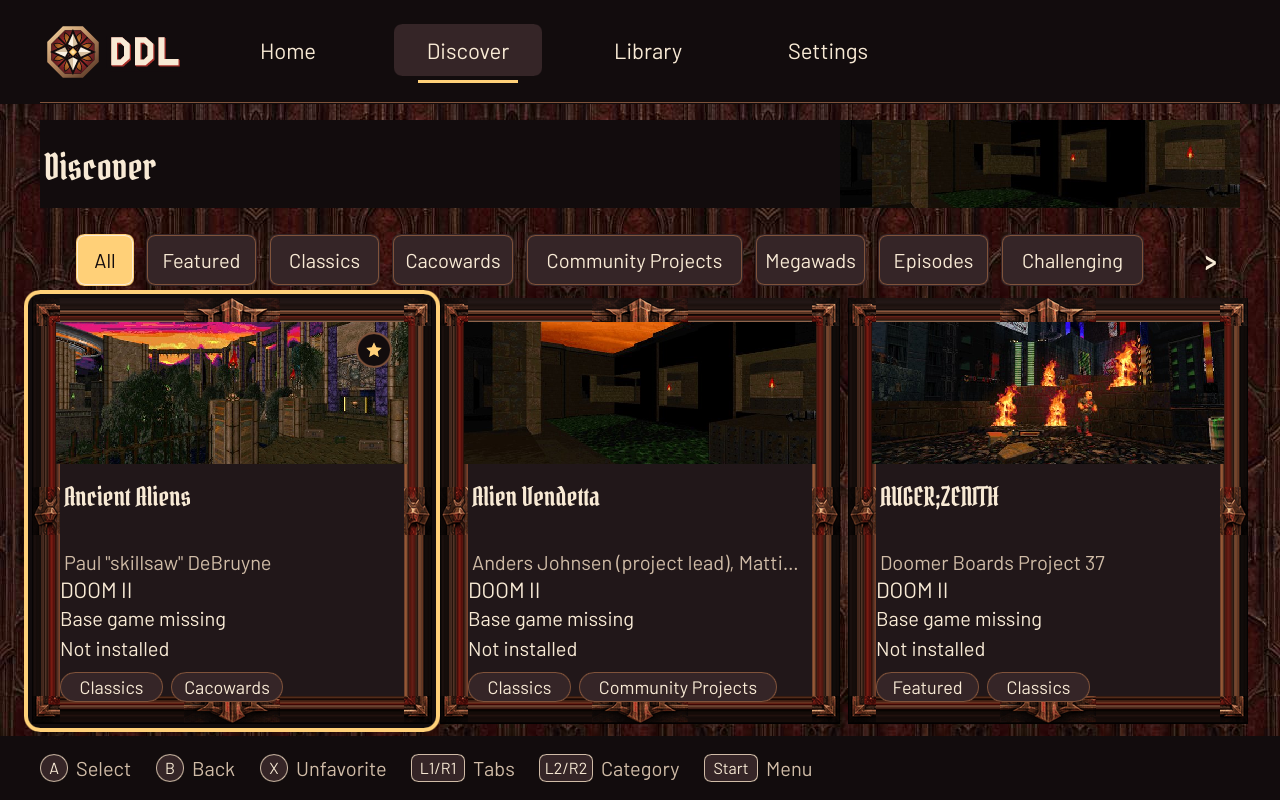
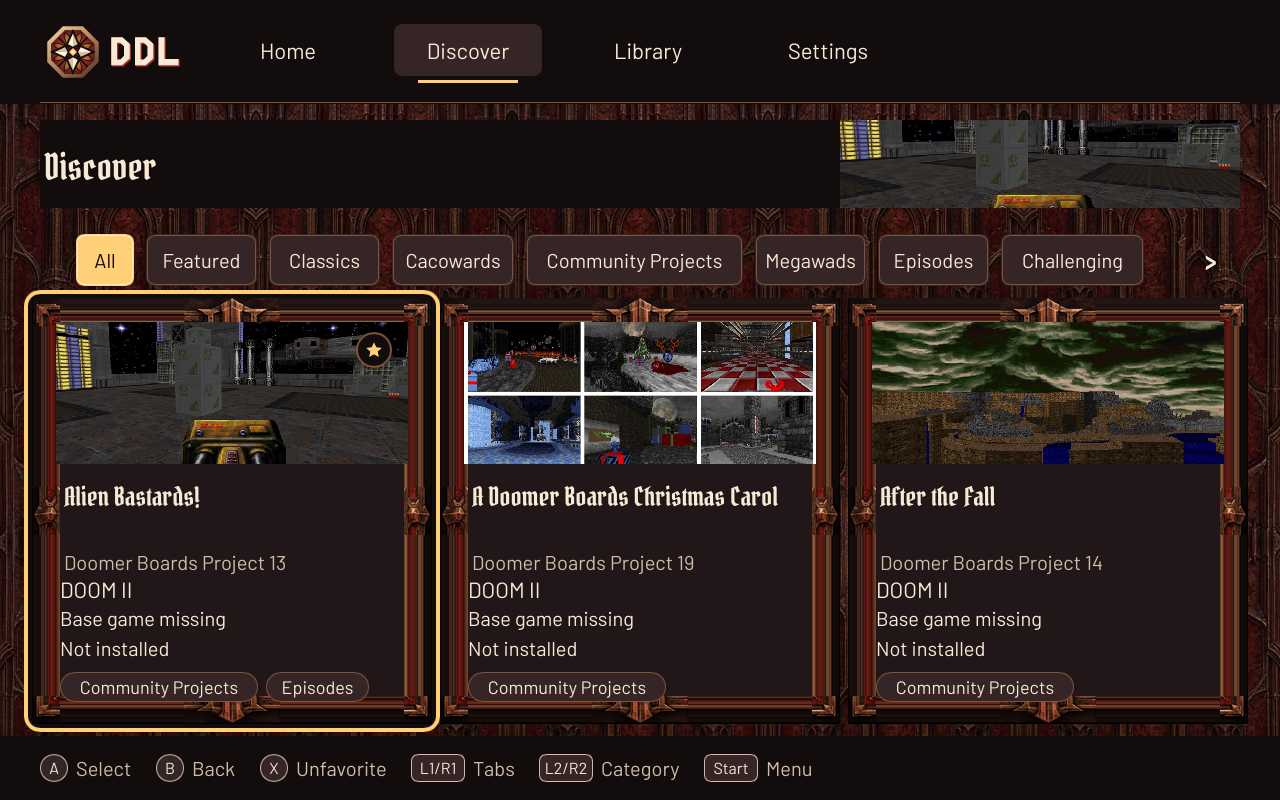
Fix headless journey assumptions for expanded catalog

diff --git a/crates/ddl/src/headless_production.rs b/crates/ddl/src/headless_production.rs
@@ -1756,7 +1756,18 @@ pub(super) fn categories_journey(window: &MinimalSoftwareWindow, ui: &AppWindow)
         let image = ui
             .global::<crate::ScreenshotAssets>()
             .invoke_image(asset.clone());
-        assert_eq!((image.size().width, image.size().height), (640, 360));
+        let size = image.size();
+        assert!(
+            (ddl_core::catalog::MIN_SCREENSHOT_WIDTH..=ddl_core::catalog::MAX_SCREENSHOT_WIDTH)
+                .contains(&size.width)
+                && (ddl_core::catalog::MIN_SCREENSHOT_HEIGHT
+                    ..=ddl_core::catalog::MAX_SCREENSHOT_HEIGHT)
+                    .contains(&size.height),
+            "{} screenshot is {}x{} outside catalog bounds",
+            recipe.id,
+            size.width,
+            size.height
+        );
         {
             let mut r = state.borrow_mut();
             r.focus = 10 + index as i32;
@@ -1966,13 +1977,31 @@ pub(super) fn categories_journey(window: &MinimalSoftwareWindow, ui: &AppWindow)
     assert_eq!(selected_chip(ui), "All");
     assert_eq!(ui.get_focused(), card_ids(ui)[0]);
 
-    // X on the second card: persisted, starred, and sorted first.
+    // Right reaches another card; favorite a non-first recipe with multiple tags
+    // so the detail assertions exercise all tags regardless of catalog ordering.
     press(window, Key::RightArrow);
-    let second = ui.get_focused();
-    assert_ne!(second, card_ids(ui)[0]);
+    assert_ne!(ui.get_focused(), card_ids(ui)[0]);
+    let first = card_ids(ui)[0];
+    let favorite_id = {
+        let mut r = state.borrow_mut();
+        let index = r
+            .snapshot
+            .as_ref()
+            .unwrap()
+            .items
+            .iter()
+            .enumerate()
+            .find(|(index, item)| 10 + *index as i32 != first && item.recipe.tags.len() >= 2)
+            .map(|(index, _)| index)
+            .expect("favorite/detail journey needs a non-first recipe with multiple tags");
+        r.focus = 10 + index as i32;
+        r.selected = index;
+        r.sync(ui);
+        r.focus
+    };
     press_char(window, "x");
     idle(&state);
-    let marked = state.borrow().snapshot.as_ref().unwrap().items[(second - 10) as usize]
+    let marked = state.borrow().snapshot.as_ref().unwrap().items[(favorite_id - 10) as usize]
         .recipe
         .id
         .clone();
@@ -1989,7 +2018,7 @@ pub(super) fn categories_journey(window: &MinimalSoftwareWindow, ui: &AppWindow)
     let first_card = ui
         .get_nodes()
         .iter()
-        .find(|n| n.id == second)
+        .find(|n| n.id == favorite_id)
         .map(|n| (n.x, n.y))
         .unwrap();
     assert_eq!(first_card, (12., 84.), "favorites sort first");
@@ -2003,7 +2032,7 @@ pub(super) fn categories_journey(window: &MinimalSoftwareWindow, ui: &AppWindow)
         ui.invoke_action(12);
     }
     assert_eq!(selected_chip(ui), "Favorites");
-    assert_eq!(card_ids(ui), [second]);
+    assert_eq!(card_ids(ui), [favorite_id]);
     capture(window, "015-discover-favorites.png");
 
     // Detail: all tag chips, favorite mark, X and the Favorite button.

diff --git a/docs/reports/045-ui-touch-ups.md b/docs/reports/045-ui-touch-ups.md
@@ -65,3 +65,14 @@ The production Home journey asserts exactly three checks at y=100/172/244, tones
 ## Open questions / remaining items
 
 None; R1–R3 and A1–A3 are complete. Physical Deck validation is outside this visual/copy task; no new device-behavior claims are made.
+
+## Post-review fix — expanded spec 037 catalog
+
+Merged `main` through `b369b7b` (merge `54fa870`) following CI run 39304816147. The category/favorites/screenshot journey had two remaining assumptions tied to the earlier catalog:
+
+- The screenshot assertion required exactly 640×360. It now checks both dimensions against the exported `ddl_core::catalog::{MIN,MAX}_SCREENSHOT_{WIDTH,HEIGHT}` bounds, retaining rejection of undersized/oversized images and the existing embedded-image, card/band/detail and credit checks for every recipe declaring screenshots.
+- Favoriting the second recipe happened to select a multi-tag recipe before spec 037. The journey still checks Right navigation to a non-first card, then explicitly selects a non-first recipe with at least two tags for the favorite/detail flow. It retains the exact tag comparison, multiple-tag assertion, persisted favorite identity, first-position sort assertion, and X/button unfavorite checks.
+
+The complete targeted journey passes against the expanded catalog (58.37s), with no further failures. Refreshed README Discover and detail images on the 89-mapset catalog; Home and Play setup remain byte-identical. Visually inspected the off-screen Discover image. `readme-screenshots.py --check` passes: Home 307,043 bytes, Discover 547,647, Play setup 297,068, detail 489,703.
+
+All follow-up validation commands run under `set -o pipefail`, chained with `&&`, with direct stdout/stderr redirection rather than output-filtering pipelines so Cargo failures propagate. `cargo fmt --all --check`, `cargo clippy --workspace --all-targets -- -D warnings`, and `cargo test --workspace` all pass on the merged catalog. The complete command chain exited 0; no acceptance item remains open. No dependencies or product behavior changed in this follow-up.
